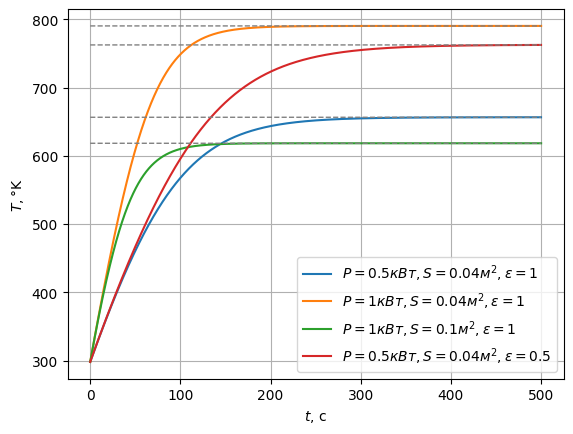
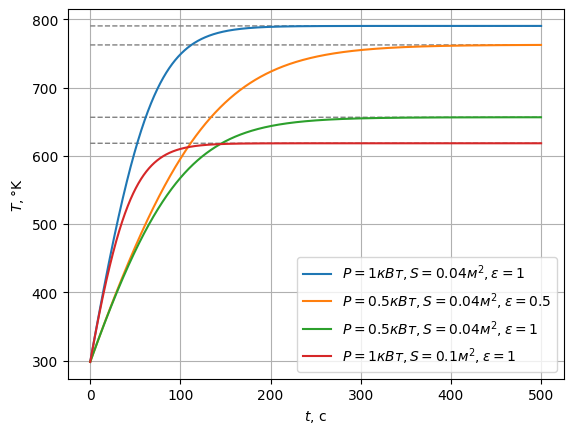
fix figures (and again...)

diff --git a/main.py b/main.py
@@ -63,7 +63,7 @@ if __name__ == '__main__':
     # ИССЛЕДОВАНИЕ 1
     experiment = 1
 
-    T0 = 298 # 25 градусов цельсия
+    T0 = 298 # 25 градусов Цельсия
     P = 500 # 0.5 кВ
     S = 0.04
     c = 904 # алюминий
@@ -99,7 +99,7 @@ if __name__ == '__main__':
     # ИССЛЕДОВАНИЕ 2
     experiment = 2
 
-    T0 = 298 # 25 градусов цельсия
+    T0 = 298 # 25 градусов Цельсия
     P = 500 # 0.5 кВ
     S = 0.04
     c = 904 # алюминий
@@ -142,15 +142,15 @@ if __name__ == '__main__':
     plt.xlabel(r'$t$, с')
     plt.ylabel(r'$T, \degree$K')
 
-    plt.plot(x_list1, y_list1, label=r'$P = 0.5 кВт, S = 0.04 м^2, \epsilon = 1$')
-    plt.plot(x_list2, y_list2, label=r'$P = 1 кВт, S = 0.04 м^2, \epsilon = 1$')
-    plt.plot(x_list3, y_list3, label=r'$P = 1 кВт, S = 0.1 м^2, \epsilon = 1$')
-    plt.plot(x_list4, y_list4, label=r'$P = 0.5 кВт, S = 0.04 м^2, \epsilon = 0.5$')
-
     plt.plot(x_list1, [T_max1 for i in range(len(y_list1))], '--', linewidth=1, color='grey')
     plt.plot(x_list2, [T_max2 for i in range(len(y_list2))], '--', linewidth=1, color='grey')
     plt.plot(x_list3, [T_max3 for i in range(len(y_list3))], '--', linewidth=1, color='grey')
     plt.plot(x_list4, [T_max4 for i in range(len(y_list4))], '--', linewidth=1, color='grey')
+
+    plt.plot(x_list2, y_list2, label=r'$P = 1 кВт, S = 0.04 м^2, \epsilon = 1$')
+    plt.plot(x_list4, y_list4, label=r'$P = 0.5 кВт, S = 0.04 м^2, \epsilon = 0.5$')
+    plt.plot(x_list1, y_list1, label=r'$P = 0.5 кВт, S = 0.04 м^2, \epsilon = 1$')
+    plt.plot(x_list3, y_list3, label=r'$P = 1 кВт, S = 0.1 м^2, \epsilon = 1$')
 
     plt.legend(loc='lower right')
     plt.grid()
@@ -162,7 +162,7 @@ if __name__ == '__main__':
     # ИССЛЕДОВАНИЕ 3
     experiment = 3
 
-    T0 = 298 # 25 градусов цельсия
+    T0 = 298 # 25 градусов Цельсия
     P = 500 # 0.5 кВ
     S = 0.04
     c = 904 # алюминий
@@ -199,9 +199,9 @@ if __name__ == '__main__':
     plt.xlabel(r'$t$, с')
     plt.ylabel(r'$T, \degree$K')
 
-    plt.plot(x_list1, y_list1, label=r'$c = 904 \frac{Дж}{кг \cdot \degree K}\, m = 0.15 кг$')
     plt.plot(x_list2, y_list2, label=r'$c = 129 \frac{Дж}{кг \cdot \degree K}\, m = 0.15 кг$')
     plt.plot(x_list3, y_list3, label=r'$c = 129 \frac{Дж}{кг \cdot \degree K}\, m = 0.25 кг$')
+    plt.plot(x_list1, y_list1, label=r'$c = 904 \frac{Дж}{кг \cdot \degree K}\, m = 0.15 кг$')
     plt.plot(x_list4, y_list4, label=r'$c = 904 \frac{Дж}{кг \cdot \degree K}\, m = 0.25 кг$')
 
     plt.plot(x_list1, [T_max1 for i in range(len(y_list1))], '--', linewidth=1, color='grey')
@@ -216,7 +216,7 @@ if __name__ == '__main__':
     # МОДЕЛЬ С ТЕРМОРЕГУЛЯТОРОМ
     experiment = 4
 
-    T0 = 298 # 25 градусов цельсия
+    T0 = 298 # 25 градусов Цельсия
     P = 500 # 0.5 кВ
     S = 0.04
     c = 904 # алюминий
